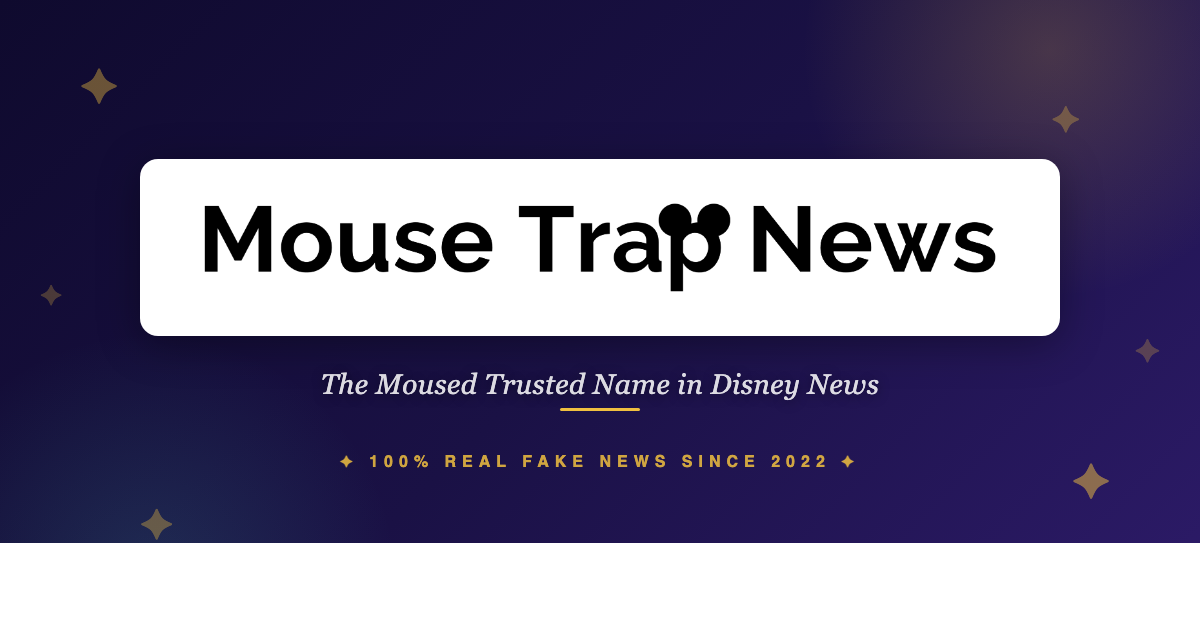
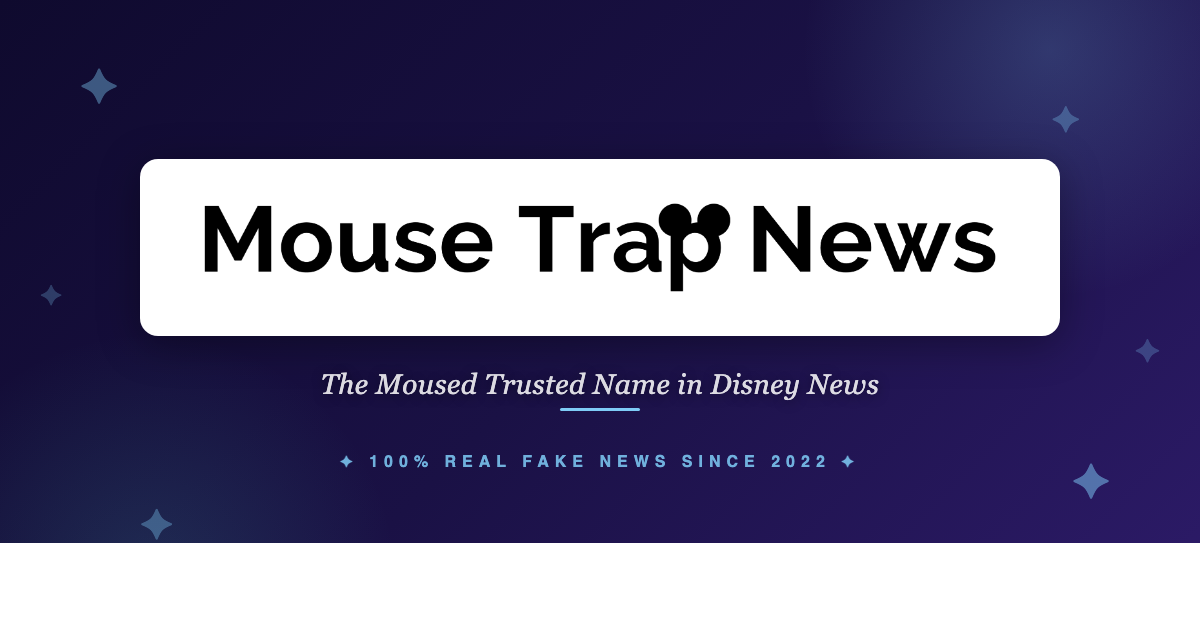
Switch primary accent from gold (#f0c040) to brand sky blue (#7fccf7)
Mouse Trap News uses #7fccf7 as their existing site accent color, so the
new site adopts it for brand consistency.

Updated:
- Root CSS variables in globals.css (--gold, --gold-light, --gold-dark, --enchanted-teal, --stardust)
- Cross Property theme in themes.ts (homepage default theme)
- All hardcoded gold rgba() values throughout globals.css (btn-glow:hover, hero-badge, blockquote backgrounds, --shadow-glow)
- OG image template + regenerated public/og-default.png

The other park-specific themes (Magic Kingdom, EPCOT, Hollywood Studios,
Animal Kingdom, Resorts, Other) keep their own custom palettes since each
park has its own color identity. Only the default/homepage theme changes.

diff --git a/src/app/globals.css b/src/app/globals.css
@@ -1,15 +1,16 @@
 @import "tailwindcss";
 
-/* ============ BASE THEME VARIABLES (Enchanted Gazette default) ============ */
+/* ============ BASE THEME VARIABLES (Enchanted Gazette — brand blue accent) ============ */
 :root {
   --midnight: #0f0a2e;
   --deep-purple: #1a1145;
   --royal-purple: #2d1b69;
-  --gold: #f0c040;
-  --gold-light: #ffd86e;
-  --gold-dark: #c9960c;
-  --enchanted-teal: #4ecdc4;
-  --stardust: #b8a9e8;
+  /* Brand accent — Mouse Trap News sky blue (was #f0c040 gold) */
+  --gold: #7fccf7;
+  --gold-light: #a8e0ff;
+  --gold-dark: #4ea8d8;
+  --enchanted-teal: #7fccf7;
+  --stardust: #bde0f5;
   --white: #ffffff;
   --off-white: #faf8f5;
   --cream: #f5f0e8;
@@ -32,7 +33,7 @@
   --shadow-sm: 0 1px 3px rgba(15,10,46,0.08);
   --shadow-md: 0 4px 12px rgba(15,10,46,0.1);
   --shadow-lg: 0 8px 30px rgba(15,10,46,0.12);
-  --shadow-glow: 0 0 20px rgba(240,192,64,0.3);
+  --shadow-glow: 0 0 20px rgba(127,204,247,0.45);
 }
 
 /* ============ RESET ============ */
@@ -95,7 +96,7 @@ button { cursor: pointer; border: none; background: none; font-family: inherit; 
 /* ============ BUTTONS ============ */
 .btn { display: inline-flex; align-items: center; gap: 0.5rem; padding: 0.7rem 1.5rem; border-radius: 50px; font-size: 0.95rem; font-weight: 600; transition: all 0.25s; white-space: nowrap; }
 .btn-glow { background: linear-gradient(135deg, var(--gold), var(--gold-light)); color: var(--midnight); box-shadow: var(--shadow-glow); }
-.btn-glow:hover { transform: translateY(-2px); box-shadow: 0 0 30px rgba(240,192,64,0.5); }
+.btn-glow:hover { transform: translateY(-2px); box-shadow: 0 0 30px rgba(127,204,247,0.6); }
 .btn-outline { border: 2px solid var(--royal-purple); color: var(--royal-purple); background: transparent; }
 .btn-outline:hover { background: var(--royal-purple); color: var(--white); }
 .btn-sm { padding: 0.45rem 1rem; font-size: 0.85rem; }
@@ -116,7 +117,7 @@ button { cursor: pointer; border: none; background: none; font-family: inherit; 
 .hero:hover .hero-bg img { transform: scale(1.03); }
 .hero-overlay { position: absolute; inset: 0; background: linear-gradient(to top, rgba(15,10,46,0.95) 0%, rgba(15,10,46,0.7) 40%, rgba(15,10,46,0.3) 70%, rgba(15,10,46,0.1) 100%); }
 .hero-content { position: relative; z-index: 2; padding: 6rem 0 3rem; max-width: 700px; }
-.hero-badge { display: inline-flex; align-items: center; gap: 0.5rem; background: rgba(240,192,64,0.15); border: 1px solid rgba(240,192,64,0.3); color: var(--gold-light); padding: 0.35rem 1rem; border-radius: 50px; font-size: 0.8rem; font-weight: 600; text-transform: uppercase; letter-spacing: 1px; margin-bottom: 1.5rem; }
+.hero-badge { display: inline-flex; align-items: center; gap: 0.5rem; background: rgba(127,204,247,0.15); border: 1px solid rgba(127,204,247,0.35); color: var(--gold-light); padding: 0.35rem 1rem; border-radius: 50px; font-size: 0.8rem; font-weight: 600; text-transform: uppercase; letter-spacing: 1px; margin-bottom: 1.5rem; }
 .hero-title { font-family: var(--font-display); font-size: 3rem; font-weight: 900; color: var(--white); line-height: 1.15; margin-bottom: 1.5rem; }
 .hero-excerpt { font-family: var(--font-serif); font-size: 1.2rem; color: rgba(255,255,255,0.8); line-height: 1.6; margin-bottom: 1.5rem; }
 .hero-meta { display: flex; align-items: center; gap: 1rem; margin-bottom: 2rem; }
@@ -271,7 +272,7 @@ button { cursor: pointer; border: none; background: none; font-family: inherit; 
 
 /* CROSS PROPERTY — Versatile, balanced editorial (covers stories spanning all parks) */
 [data-theme="cross-property"] .article-body h2 { border-top: 2px solid var(--gold); padding-top: 1.5rem; }
-[data-theme="cross-property"] .article-body blockquote { border-left: 4px solid var(--gold); background: linear-gradient(135deg, rgba(46,80,144,0.04), rgba(240,192,64,0.04)); border-radius: 0 8px 8px 0; padding: 1.5rem 2rem; }
+[data-theme="cross-property"] .article-body blockquote { border-left: 4px solid var(--gold); background: linear-gradient(135deg, rgba(46,80,144,0.04), rgba(127,204,247,0.06)); border-radius: 0 8px 8px 0; padding: 1.5rem 2rem; }
 
 /* OTHER — Soft, friendly miscellaneous */
 [data-theme="other"] .article-body h2 { border-top: none; padding-top: 0; position: relative; }

diff --git a/src/components/theme/themes.ts b/src/components/theme/themes.ts
@@ -201,14 +201,14 @@ export const themes: Record<string, ThemeConfig> = {
       midnight: '#0f1a2e',
       deepPurple: '#152540',
       royalPurple: '#2e5090',
-      gold: '#f0c040',
-      goldLight: '#ffd86e',
-      goldDark: '#c9960c',
-      enchantedTeal: '#74b9ff',
-      stardust: '#a8c8e8',
+      gold: '#7fccf7',           // Brand sky blue (was #f0c040)
+      goldLight: '#a8e0ff',      // Lighter blue (was #ffd86e)
+      goldDark: '#4ea8d8',       // Darker blue (was #c9960c)
+      enchantedTeal: '#7fccf7',
+      stardust: '#bde0f5',
       white: '#ffffff',
       offWhite: '#f6f9fc',
-      cream: '#e8eef5',
+      cream: '#e8f2fb',
       lightGray: '#d5dde8',
       midGray: '#8090a8',
       darkGray: '#3a4a5e',
@@ -216,7 +216,7 @@ export const themes: Record<string, ThemeConfig> = {
       catMk: '#6c5ce7', catEpcot: '#00b894', catStudios: '#e17055', catAk: '#fdcb6e',
       catResorts: '#a29bfe', catCross: '#2e5090', catOther: '#ff6b9d',
     },
-    particleColors: ['#f0c040', '#74b9ff', '#a8c8e8', '#ffd86e'],
+    particleColors: ['#7fccf7', '#a8e0ff', '#bde0f5', '#4ea8d8'],
   },
 
   'other': {
